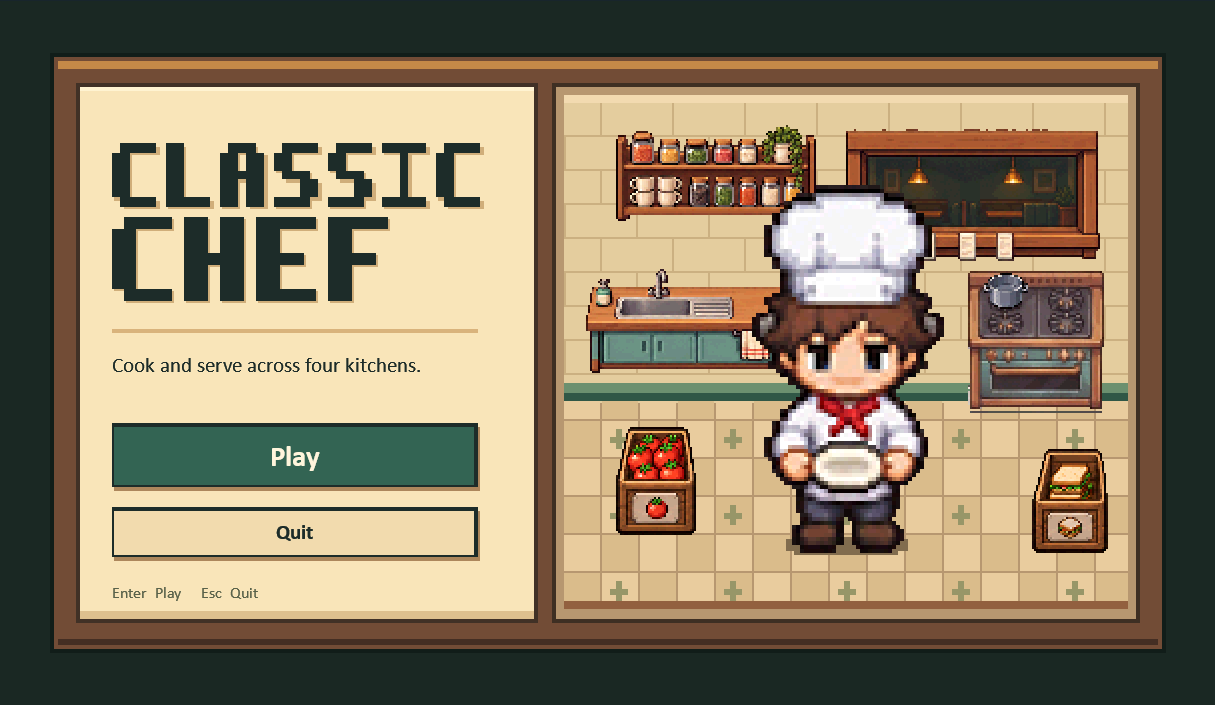
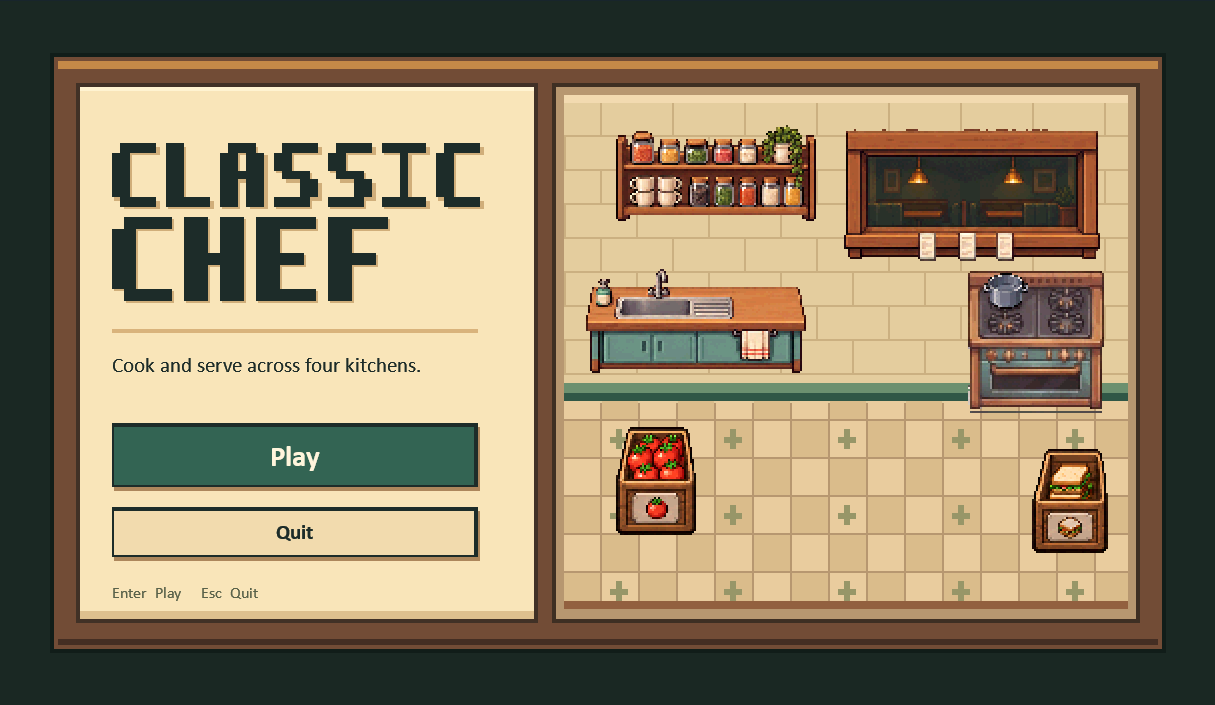
Remove the chef portrait from the main menu

Changed region(s): [[0.6091, 0.2496, 0.7918, 0.8113]]

diff --git a/restaurant/menu.py b/restaurant/menu.py
@@ -7,7 +7,6 @@ from restaurant.display import artwork_viewport
 from restaurant.kitchen.details import PixelDetails
 from restaurant.kitchen.scene import load_textures
 from restaurant.pixel_art import PixelCanvas, draw_pixel_texture
-from restaurant.player.controller import ASSET_DIR as CHEF_DIR
 from restaurant.shared.settings import WINDOW_HEIGHT, WINDOW_WIDTH
 
 
@@ -92,7 +91,6 @@ class MainMenu(arcade.View):
         self.ui_camera = arcade.Camera2D(position=(0, 0))
         self.art = menu_art()
         self.textures = load_textures()
-        self.chef = arcade.load_texture(CHEF_DIR / "down_4.png")
         self.labels = {}
         self.view_size = None
 
@@ -136,8 +134,7 @@ class MainMenu(arcade.View):
             self.start_game()
 
     def draw_picture(self, key, x, y, width, height):
-        texture = self.chef if key == "chef" else self.textures[key]
-        draw_pixel_texture(texture, arcade.XYWH(x, y, width, height))
+        draw_pixel_texture(self.textures[key], arcade.XYWH(x, y, width, height))
 
     def draw_kitchen(self):
         self.draw_picture("spice_shelf", 715, 531, 202, 98)
@@ -147,9 +144,6 @@ class MainMenu(arcade.View):
         self.draw_picture("pot", 1006, 414, 46, 37)
         self.draw_picture("crate_tomato", 656, 225, 79, 108)
         self.draw_picture("crate_sandwich", 1070, 203, 75, 103)
-        for x, y, w, h in ((795, 151, 104, 18), (786, 154, 122, 12)):
-            arcade.draw_lbwh_rectangle_filled(x, y, w, h, (129, 108, 78))
-        self.draw_picture("chef", 849, 328, self.chef.width * 4, self.chef.height * 4)
 
     def label(self, value, x, y, size, color=INK, *, bold=False, center=False):
         if value not in self.labels:

diff --git a/README.md b/README.md
@@ -16,8 +16,8 @@ See [kitchen layout notes](docs/kitchen_layout.md).
 
 ## Play without the repository
 
-Download **kitchen-demo-windows-v0.8.0.zip** from the
-[visual polish release](https://github.com/toocoolqi/imaging_and-_special-effects/releases/tag/kitchen-demo-v0.8.0).
+Download **kitchen-demo-windows-v0.8.1.zip** from the
+[current release](https://github.com/toocoolqi/imaging_and-_special-effects/releases/tag/kitchen-demo-v0.8.1).
 Extract the whole ZIP and
 double-click `PlayerDemo/PlayerDemo.exe`. It includes Python, Arcade and artwork.
 Keep `_internal` beside the EXE. No Git or Python installation is needed to play.
